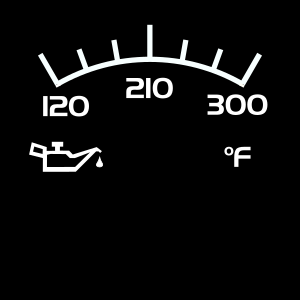
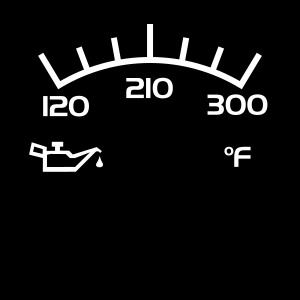
topic/accessory-gauge-units: 	- updated 740/940 style oil temp gauge to include C units

Changed region(s): [[0.15, 0.06, 0.87, 0.3], [0.72, 0.15, 0.75, 0.18], [0.36, 0.12, 0.39, 0.15]]

diff --git a/QtDash/VolvoDigitalDashModels/app/SideAccessoryScreen.qml b/QtDash/VolvoDigitalDashModels/app/SideAccessoryScreen.qml
@@ -131,7 +131,9 @@ Window {
             minAngle: -125
             maxAngle: -55
 
-            imageSource: "qrc:/gauge-faces-740-940/740_oil_temperature.png"
+            imageSource: oilTempF ?
+                             "qrc:/gauge-faces-740-940/740_oil_temperature.png" :
+                             "qrc:/gauge-faces-740-940/740_oil_temperature-c.png"
             needleResource: "qrc:/needles/needle-740-940.png"
 
             needleWidth: needleWidth_740
